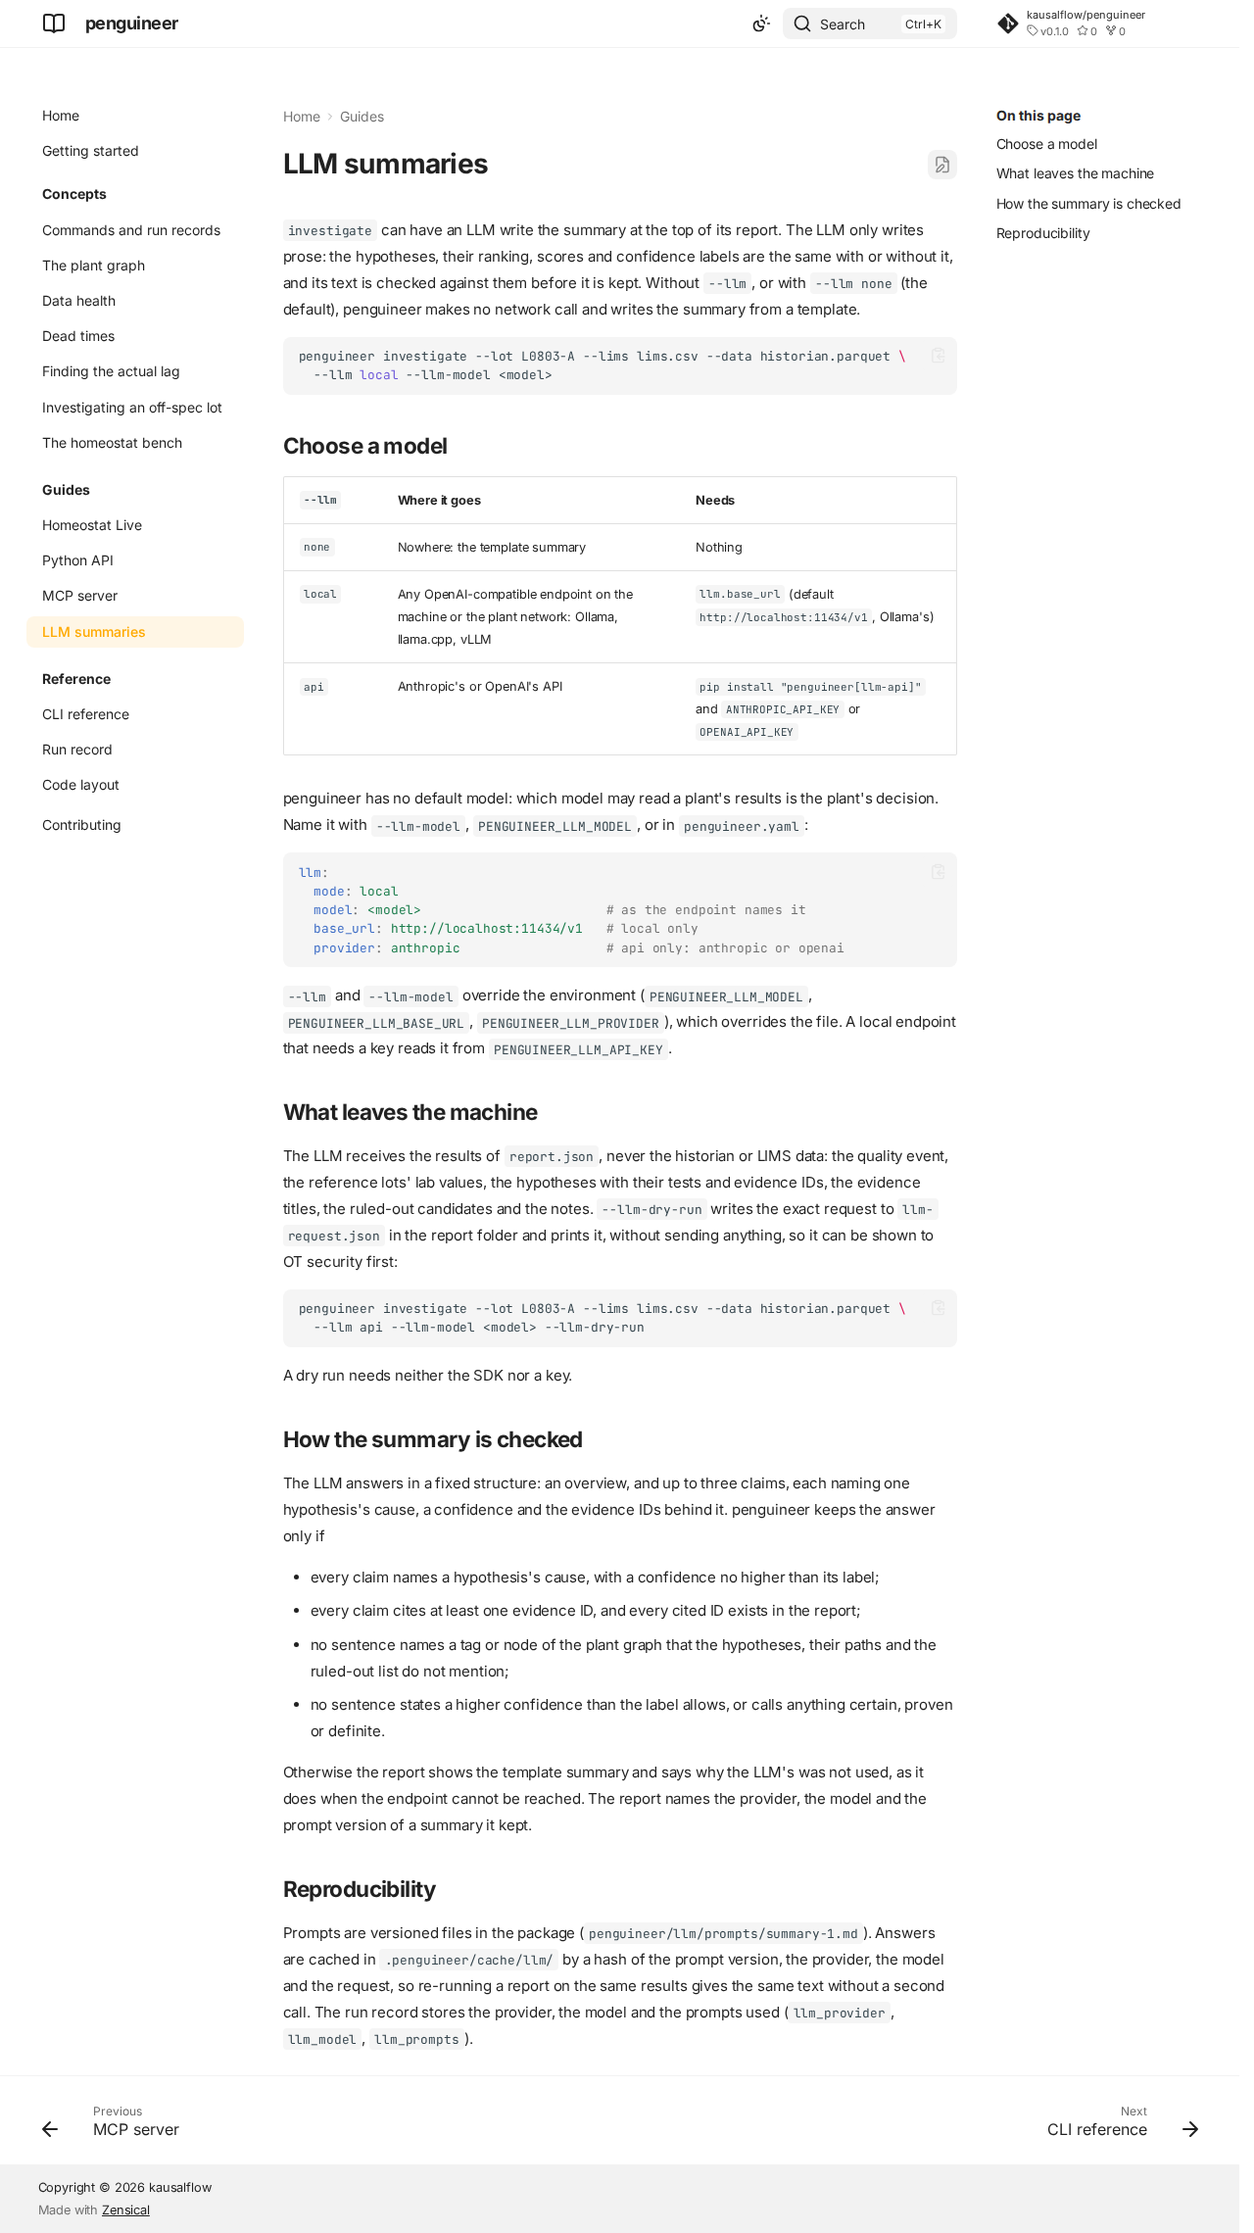
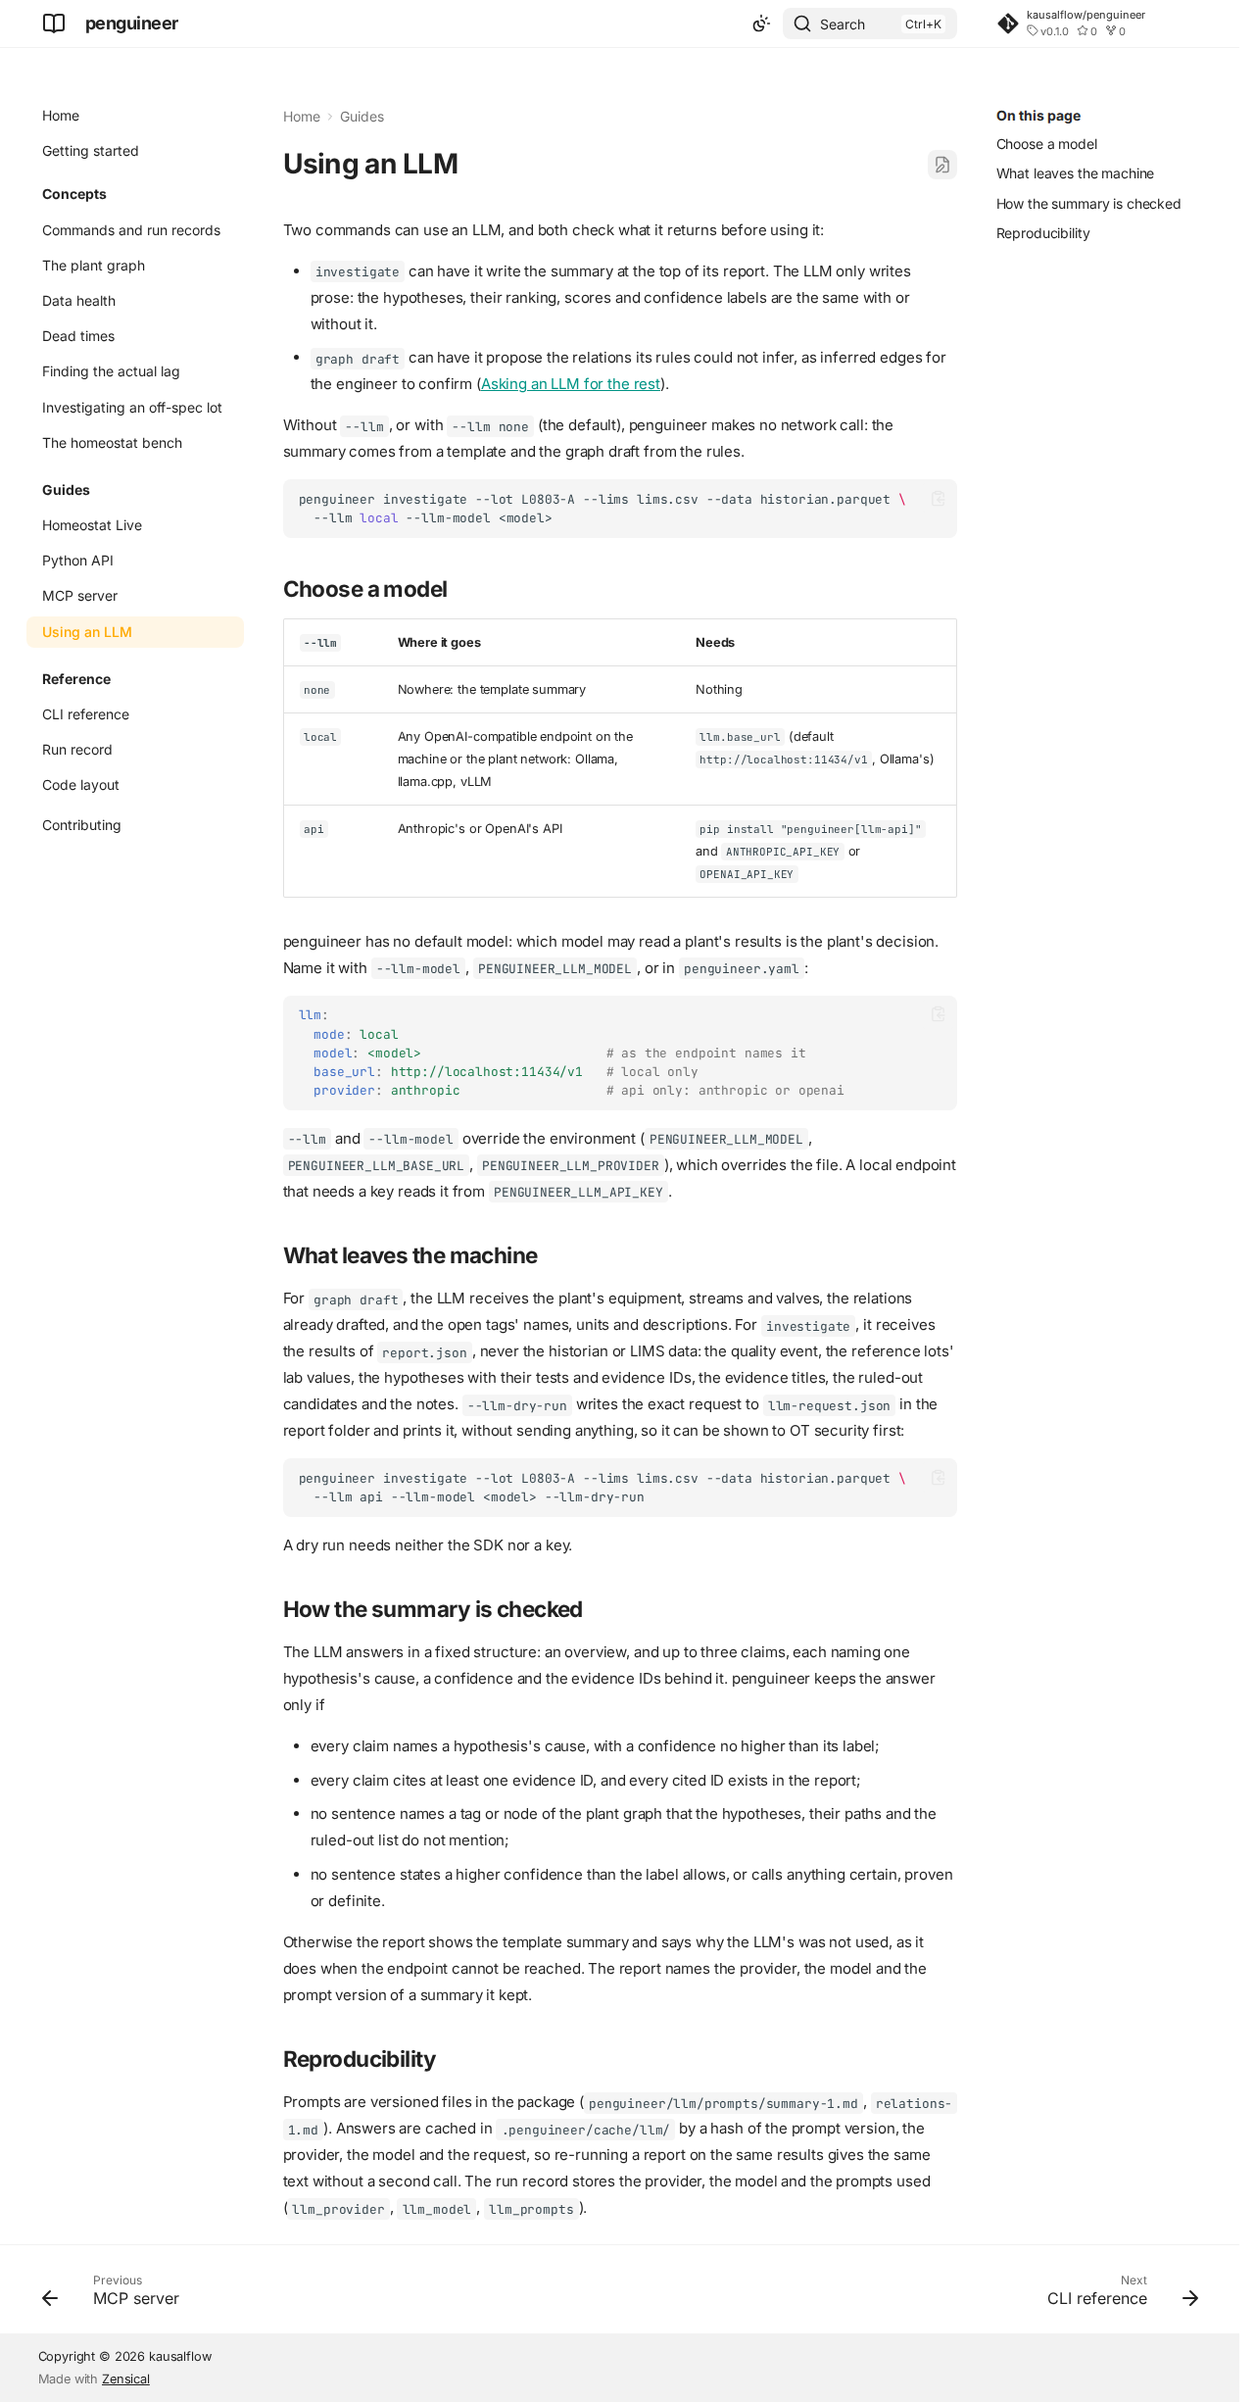
Deploying to gh-pages from @ kausalflow/penguineer@58cfc8b8638971c44011a8c394c68befe1141459 🚀

diff --git a/guides/llm/index.html b/guides/llm/index.html
@@ -30,7 +30,7 @@
     
     
       
-        <title>LLM summaries - penguineer</title>
+        <title>Using an LLM - penguineer</title>
       
     
     
@@ -119,7 +119,7 @@
         <div class="md-header__topic" data-md-component="header-topic">
           <span class="md-ellipsis">
             
-              LLM summaries
+              Using an LLM
             
           </span>
         </div>
@@ -724,7 +724,7 @@
   <span class="md-ellipsis">
     
   
-  LLM summaries
+  Using an LLM
 
     
   </span>
@@ -741,7 +741,7 @@
   <span class="md-ellipsis">
     
   
-  LLM summaries
+  Using an LLM
 
     
   </span>
@@ -1173,12 +1173,17 @@
   
 
 
-<h1 id="llm-summaries">LLM summaries<a class="headerlink" href="#llm-summaries" title="Permanent link">&para;</a></h1>
-<p><code>investigate</code> can have an LLM write the summary at the top of its report. The LLM only writes
-prose: the hypotheses, their ranking, scores and confidence labels are the same with or without
-it, and its text is checked against them before it is kept. Without <code>--llm</code>, or with
-<code>--llm none</code> (the default), penguineer makes no network call and writes the summary from a
-template.</p>
+<h1 id="using-an-llm">Using an LLM<a class="headerlink" href="#using-an-llm" title="Permanent link">&para;</a></h1>
+<p>Two commands can use an LLM, and both check what it returns before using it:</p>
+<ul>
+<li><code>investigate</code> can have it write the summary at the top of its report. The LLM only writes
+  prose: the hypotheses, their ranking, scores and confidence labels are the same with or
+  without it.</li>
+<li><code>graph draft</code> can have it propose the relations its rules could not infer, as inferred edges
+  for the engineer to confirm (<a href="../../concepts/plant-graph/#asking-an-llm-for-the-rest">Asking an LLM for the rest</a>).</li>
+</ul>
+<p>Without <code>--llm</code>, or with <code>--llm none</code> (the default), penguineer makes no network call: the
+summary comes from a template and the graph draft from the rules.</p>
 <div class="language-bash highlight"><pre><span></span><code><span id="__span-0-1"><a id="__codelineno-0-1" name="__codelineno-0-1" href="#__codelineno-0-1"></a>penguineer<span class="w"> </span>investigate<span class="w"> </span>--lot<span class="w"> </span>L0803-A<span class="w"> </span>--lims<span class="w"> </span>lims.csv<span class="w"> </span>--data<span class="w"> </span>historian.parquet<span class="w"> </span><span class="se">\</span>
 </span><span id="__span-0-2"><a id="__codelineno-0-2" name="__codelineno-0-2" href="#__codelineno-0-2"></a><span class="w">  </span>--llm<span class="w"> </span><span class="nb">local</span><span class="w"> </span>--llm-model<span class="w"> </span>&lt;model&gt;
 </span></code></pre></div>
@@ -1221,7 +1226,9 @@ Name it with <code>--llm-model</code>, <code>PENGUINEER_LLM_MODEL</code>, or in 
 <code>PENGUINEER_LLM_BASE_URL</code>, <code>PENGUINEER_LLM_PROVIDER</code>), which overrides the file. A local
 endpoint that needs a key reads it from <code>PENGUINEER_LLM_API_KEY</code>.</p>
 <h2 id="what-leaves-the-machine">What leaves the machine<a class="headerlink" href="#what-leaves-the-machine" title="Permanent link">&para;</a></h2>
-<p>The LLM receives the results of <code>report.json</code>, never the historian or LIMS data: the quality
+<p>For <code>graph draft</code>, the LLM receives the plant's equipment, streams and valves, the relations
+already drafted, and the open tags' names, units and descriptions. For <code>investigate</code>, it receives
+the results of <code>report.json</code>, never the historian or LIMS data: the quality
 event, the reference lots' lab values, the hypotheses with their tests and evidence IDs, the
 evidence titles, the ruled-out candidates and the notes. <code>--llm-dry-run</code> writes the exact request
 to <code>llm-request.json</code> in the report folder and prints it, without sending anything, so it can be
@@ -1246,7 +1253,8 @@ if</p>
 when the endpoint cannot be reached. The report names the provider, the model and the prompt
 version of a summary it kept.</p>
 <h2 id="reproducibility">Reproducibility<a class="headerlink" href="#reproducibility" title="Permanent link">&para;</a></h2>
-<p>Prompts are versioned files in the package (<code>penguineer/llm/prompts/summary-1.md</code>). Answers are
+<p>Prompts are versioned files in the package (<code>penguineer/llm/prompts/summary-1.md</code>,
+<code>relations-1.md</code>). Answers are
 cached in <code>.penguineer/cache/llm/</code> by a hash of the prompt version, the provider, the model and
 the request, so re-running a report on the same results gives the same text without a second
 call. The run record stores the provider, the model and the prompts used (<code>llm_provider</code>,

diff --git a/concepts/plant-graph/index.html b/concepts/plant-graph/index.html
@@ -521,6 +521,17 @@
   
 </li>
         
+          <li class="md-nav__item">
+  <a href="#asking-an-llm-for-the-rest" class="md-nav__link">
+    <span class="md-ellipsis">
+      <span class="md-typeset">
+        Asking an LLM for the rest
+      </span>
+    </span>
+  </a>
+  
+</li>
+        
       </ul>
     </nav>
   
@@ -834,7 +845,7 @@
   <span class="md-ellipsis">
     
   
-  LLM summaries
+  Using an LLM
 
     
   </span>
@@ -1136,6 +1147,17 @@
   
 </li>
         
+          <li class="md-nav__item">
+  <a href="#asking-an-llm-for-the-rest" class="md-nav__link">
+    <span class="md-ellipsis">
+      <span class="md-typeset">
+        Asking an LLM for the rest
+      </span>
+    </span>
+  </a>
+  
+</li>
+        
       </ul>
     </nav>
   
@@ -1422,8 +1444,7 @@ description or a naming convention than from a column or a tag in the list), so 
 appear in <code>graph check</code>'s confirm queue. A unit that contradicts the name is reported. Tags
 without an ISA-5.1 name, such as <code>GRADE</code>, become tag nodes without a role.</p>
 <p>A tag list does not say how material flows, so on its own the draft has no <code>flows_to</code> edges and
-no streams. Sample points and qualities come from the engineer. LLM-proposed relations (<code>--llm</code>)
-are not built yet.</p>
+no streams. Sample points and qualities come from the engineer.</p>
 <h3 id="adding-the-pid">Adding the P&amp;ID<a class="headerlink" href="#adding-the-pid" title="Permanent link">&para;</a></h3>
 <p>With a DEXPI P&amp;ID (the Proteus XML that P&amp;ID tools export), the draft also reads how the plant
 is piped and where its instruments sit:</p>
@@ -1455,6 +1476,26 @@ goes to (0.6): confirm those. When the tag list says otherwise and is more sure 
 column, or a valve tag in the list), the tag list's answer is kept and the difference is
 reported. Instruments on the P&amp;ID without a tag in the list are reported too. Everything from the
 P&amp;ID has <code>source: dexpi</code> and is <code>inferred</code>, like the rest of the draft.</p>
+<h3 id="asking-an-llm-for-the-rest">Asking an LLM for the rest<a class="headerlink" href="#asking-an-llm-for-the-rest" title="Permanent link">&para;</a></h3>
+<p>What the rules and the P&amp;ID leave open, an LLM can propose: which equipment a tag measures when
+its description names none, what a valve acts on, and, without a P&amp;ID, the piping.</p>
+<div class="language-bash highlight"><pre><span></span><code><span id="__span-5-1"><a id="__codelineno-5-1" name="__codelineno-5-1" href="#__codelineno-5-1"></a>penguineer<span class="w"> </span>graph<span class="w"> </span>draft<span class="w"> </span>--tags<span class="w"> </span>tags.csv<span class="w"> </span>--llm<span class="w"> </span><span class="nb">local</span><span class="w"> </span>--llm-model<span class="w"> </span>&lt;model&gt;
+</span></code></pre></div>
+<div class="language-text highlight"><pre><span></span><code><span id="__span-6-1"><a id="__codelineno-6-1" name="__codelineno-6-1" href="#__codelineno-6-1"></a>graph draft: 7 tags, 1 loops, 1 valves, 2 equipment; 6 edges (1 flows_to), all inferred
+</span><span id="__span-6-2"><a id="__codelineno-6-2" name="__codelineno-6-2" href="#__codelineno-6-2"></a>wrote graph.yaml
+</span><span id="__span-6-3"><a id="__codelineno-6-3" name="__codelineno-6-3" href="#__codelineno-6-3"></a>1 tags without an ISA-5.1 name: GRADE
+</span><span id="__span-6-4"><a id="__codelineno-6-4" name="__codelineno-6-4" href="#__codelineno-6-4"></a>note: the LLM proposed 4 relations; 3 kept (source llm), 1 rejected
+</span><span id="__span-6-5"><a id="__codelineno-6-5" name="__codelineno-6-5" href="#__codelineno-6-5"></a>note: rejected LLM proposal R-101 -flows_to-&gt; E-201: would close a cycle
+</span><span id="__span-6-6"><a id="__codelineno-6-6" name="__codelineno-6-6" href="#__codelineno-6-6"></a>next: penguineer graph check --graph graph.yaml
+</span></code></pre></div>
+<p>The LLM sees the plant's equipment, streams and valves, the relations already drafted, and the
+open tags with their names, units and descriptions; never any data. It may only link nodes that
+exist. A proposal is kept only if both ends have the right types, it places a tag or valve that
+was open (it never changes a drafted relation), it does not repeat an edge, and its piping closes
+no cycle; the summary lists every rejected one and why. Kept edges have <code>source: llm</code>, are
+<code>inferred</code>, and get a confidence of 0.3 to 0.5, below every rule-based edge. <code>--llm-dry-run</code>
+writes the requests to <code>llm-request.json</code> next to the graph and sends nothing. See
+<a href="../../guides/llm/">Using an LLM</a> for choosing a model.</p>
 
 
 

diff --git a/concepts/investigate/index.html b/concepts/investigate/index.html
@@ -806,7 +806,7 @@
   <span class="md-ellipsis">
     
   
-  LLM summaries
+  Using an LLM
 
     
   </span>
@@ -1180,7 +1180,7 @@
 
 
 <h1 id="investigating-an-off-spec-lot">Investigating an off-spec lot<a class="headerlink" href="#investigating-an-off-spec-lot" title="Permanent link">&para;</a></h1>
-<p><code>investigate</code> takes one lot, finds the lab result that was out of spec, and ranks the process variables that could have caused it. Every hypothesis comes with its tests, its path through the plant graph, and plots. The engines are deterministic Python; an LLM can write the summary at the top of the report (see <a href="../../guides/llm/">LLM summaries</a>), and never touches the ranking.</p>
+<p><code>investigate</code> takes one lot, finds the lab result that was out of spec, and ranks the process variables that could have caused it. Every hypothesis comes with its tests, its path through the plant graph, and plots. The engines are deterministic Python; an LLM can write the summary at the top of the report (see <a href="../../guides/llm/">Using an LLM</a>), and never touches the ranking.</p>
 <div class="language-bash highlight"><pre><span></span><code><span id="__span-0-1"><a id="__codelineno-0-1" name="__codelineno-0-1" href="#__codelineno-0-1"></a>uv<span class="w"> </span>run<span class="w"> </span>penguineer<span class="w"> </span>investigate<span class="w"> </span>--lot<span class="w"> </span>L0803-A<span class="w"> </span><span class="se">\</span>
 </span><span id="__span-0-2"><a id="__codelineno-0-2" name="__codelineno-0-2" href="#__codelineno-0-2"></a><span class="w">  </span>--lims<span class="w"> </span>examples/offspec/lims.csv<span class="w"> </span>--data<span class="w"> </span>examples/offspec/historian.csv<span class="w"> </span><span class="se">\</span>
 </span><span id="__span-0-3"><a id="__codelineno-0-3" name="__codelineno-0-3" href="#__codelineno-0-3"></a><span class="w">  </span>--graph<span class="w"> </span>examples/offspec/graph.yaml<span class="w"> </span>--lots<span class="w"> </span>examples/offspec/lots.csv

diff --git a/reference/cli/index.html b/reference/cli/index.html
@@ -713,7 +713,7 @@
   <span class="md-ellipsis">
     
   
-  LLM summaries
+  Using an LLM
 
     
   </span>
@@ -1468,6 +1468,18 @@
 <td><code>none</code></td>
 <td>LLM for relations rules cannot infer</td>
 </tr>
+<tr>
+<td><code>--llm-model</code></td>
+<td>str</td>
+<td></td>
+<td>Model for --llm (default: llm.model in penguineer.yaml)</td>
+</tr>
+<tr>
+<td><code>--llm-dry-run</code></td>
+<td>bool</td>
+<td><code>False</code></td>
+<td>Write what would be sent to the LLM, and send nothing</td>
+</tr>
 </tbody>
 </table>
 <h2 id="penguineer-graph-lags"><code>penguineer graph lags</code><a class="headerlink" href="#penguineer-graph-lags" title="Permanent link">&para;</a></h2>
@@ -1793,7 +1805,7 @@
       <nav class="md-footer__inner md-grid" aria-label="Footer" >
         
           
-          <a href="../../guides/llm/" class="md-footer__link md-footer__link--prev" aria-label="Previous: LLM summaries">
+          <a href="../../guides/llm/" class="md-footer__link md-footer__link--prev" aria-label="Previous: Using an LLM">
             <div class="md-footer__button md-icon">
               
               <svg xmlns="http://www.w3.org/2000/svg" fill="none" stroke="currentColor" stroke-linecap="round" stroke-linejoin="round" stroke-width="2" class="lucide lucide-arrow-left" viewBox="0 0 24 24"><path d="m12 19-7-7 7-7M19 12H5"/></svg>
@@ -1803,7 +1815,7 @@
                 Previous
               </span>
               <div class="md-ellipsis">
-                LLM summaries
+                Using an LLM
               </div>
             </div>
           </a>

diff --git a/index.html b/index.html
@@ -769,7 +769,7 @@
   <span class="md-ellipsis">
     
   
-  LLM summaries
+  Using an LLM
 
     
   </span>
@@ -1054,7 +1054,7 @@
 <p><a href="https://github.com/kausalflow/alchemist">Alchemist</a> imports penguineer as a library and adds the UI, runners, project management, the data catalog, staging and sealing on top. penguineer has none of those itself.</p>
 <div class="admonition note">
 <p class="admonition-title">Status</p>
-<p>This is an early release. <code>init</code>, <code>data health</code>, <code>graph check</code>, <code>graph draft</code>, <code>graph lags</code>, <code>lag</code>, <code>investigate</code>, <code>bench homeostat</code> and <code>mcp</code> work. <code>graph draft</code> reads tag names and DEXPI P&IDs; its LLM-proposed relations (<code>--llm</code>) are not built yet.</p>
+<p>This is an early release. <code>init</code>, <code>data health</code>, <code>graph check</code>, <code>graph draft</code>, <code>graph lags</code>, <code>lag</code>, <code>investigate</code>, <code>bench homeostat</code> and <code>mcp</code> work. <code>graph draft</code> reads tag names and DEXPI P&amp;IDs, and can ask an LLM for the relations they leave open.</p>
 </div>
 <h2 id="where-to-go-next">Where to go next<a class="headerlink" href="#where-to-go-next" title="Permanent link">&para;</a></h2>
 <ul>

diff --git a/guides/mcp/index.html b/guides/mcp/index.html
@@ -795,7 +795,7 @@
   <span class="md-ellipsis">
     
   
-  LLM summaries
+  Using an LLM
 
     
   </span>
@@ -1311,13 +1311,13 @@ client asks for them.</p>
         
         
           
-          <a href="../llm/" class="md-footer__link md-footer__link--next" aria-label="Next: LLM summaries">
+          <a href="../llm/" class="md-footer__link md-footer__link--next" aria-label="Next: Using an LLM">
             <div class="md-footer__title">
               <span class="md-footer__direction">
                 Next
               </span>
               <div class="md-ellipsis">
-                LLM summaries
+                Using an LLM
               </div>
             </div>
             <div class="md-footer__button md-icon">

diff --git a/404.html b/404.html
@@ -707,7 +707,7 @@
   <span class="md-ellipsis">
     
   
-  LLM summaries
+  Using an LLM
 
     
   </span>

diff --git a/concepts/bench/index.html b/concepts/bench/index.html
@@ -828,7 +828,7 @@
   <span class="md-ellipsis">
     
   
-  LLM summaries
+  Using an LLM
 
     
   </span>

diff --git a/concepts/commands/index.html b/concepts/commands/index.html
@@ -817,7 +817,7 @@
   <span class="md-ellipsis">
     
   
-  LLM summaries
+  Using an LLM
 
     
   </span>

diff --git a/concepts/data-health/index.html b/concepts/data-health/index.html
@@ -773,7 +773,7 @@
   <span class="md-ellipsis">
     
   
-  LLM summaries
+  Using an LLM
 
     
   </span>

diff --git a/concepts/dead-times/index.html b/concepts/dead-times/index.html
@@ -795,7 +795,7 @@
   <span class="md-ellipsis">
     
   
-  LLM summaries
+  Using an LLM
 
     
   </span>

diff --git a/concepts/lag/index.html b/concepts/lag/index.html
@@ -806,7 +806,7 @@
   <span class="md-ellipsis">
     
   
-  LLM summaries
+  Using an LLM
 
     
   </span>
